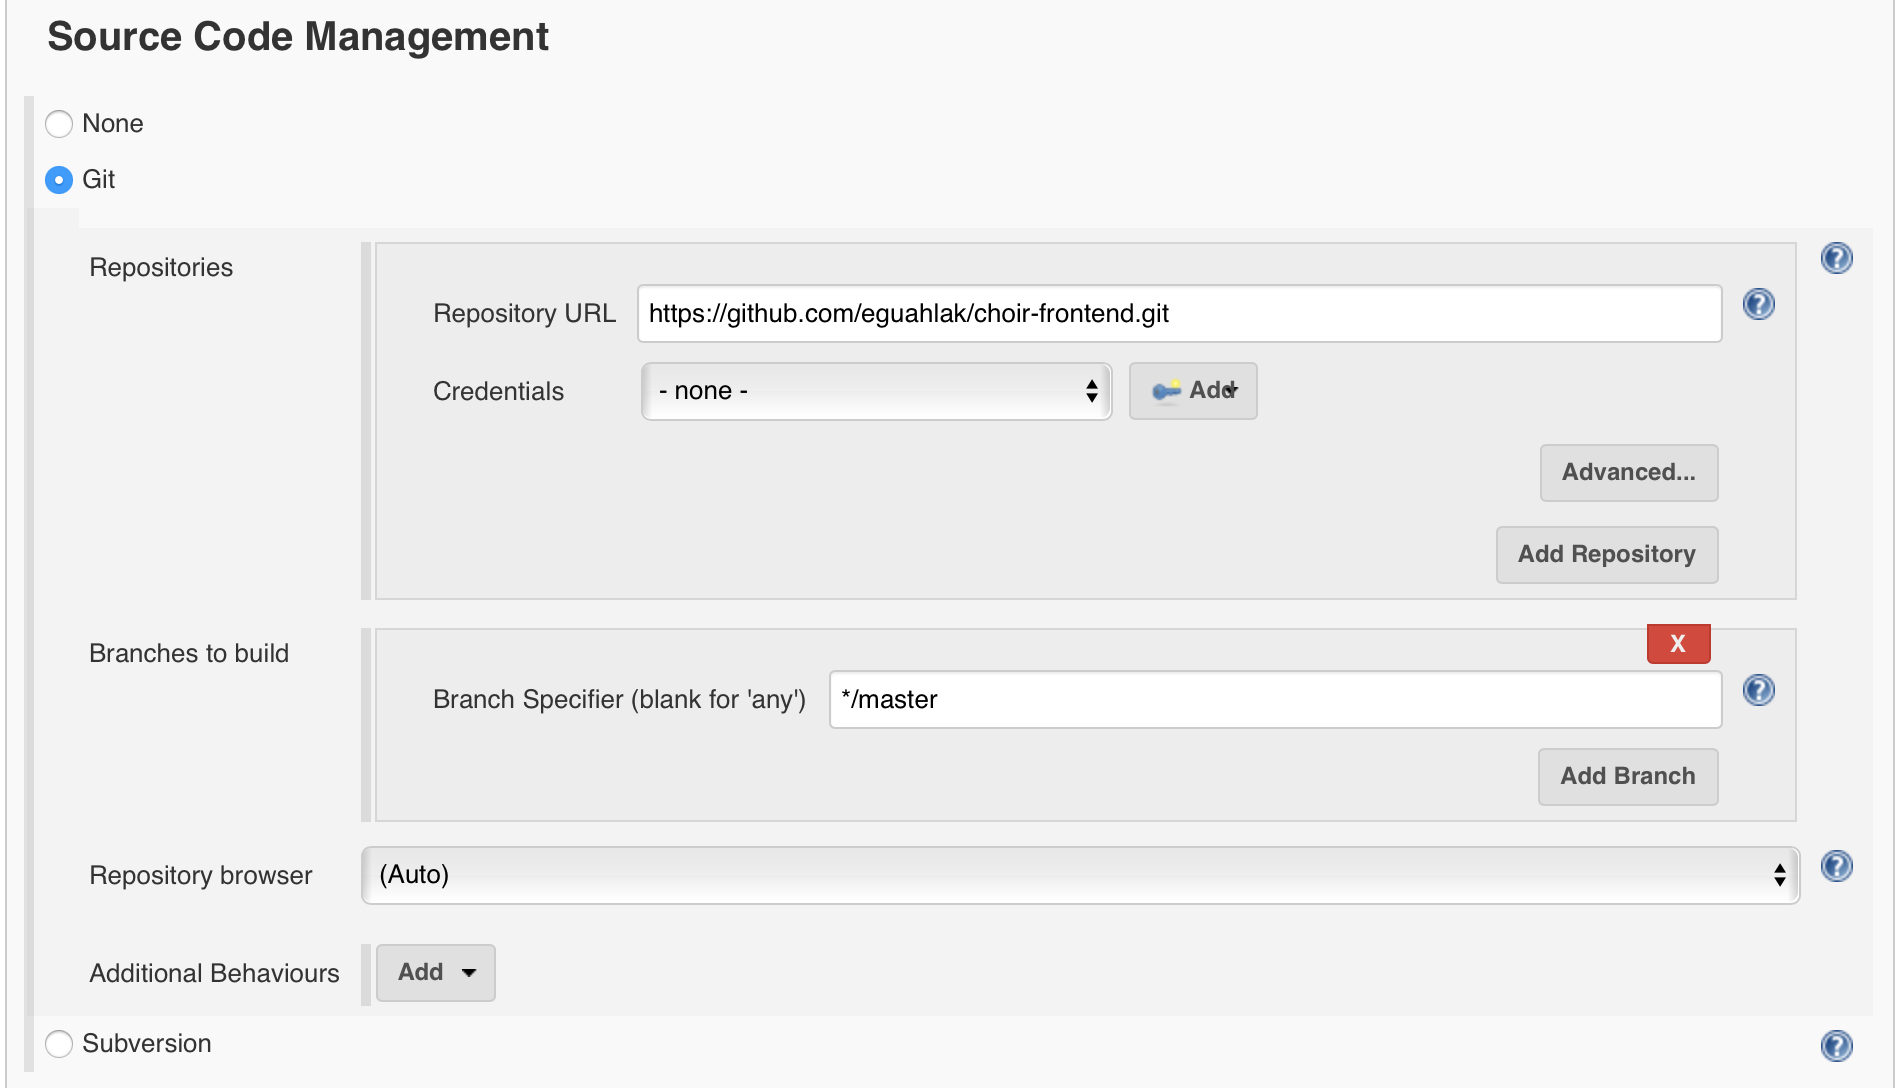
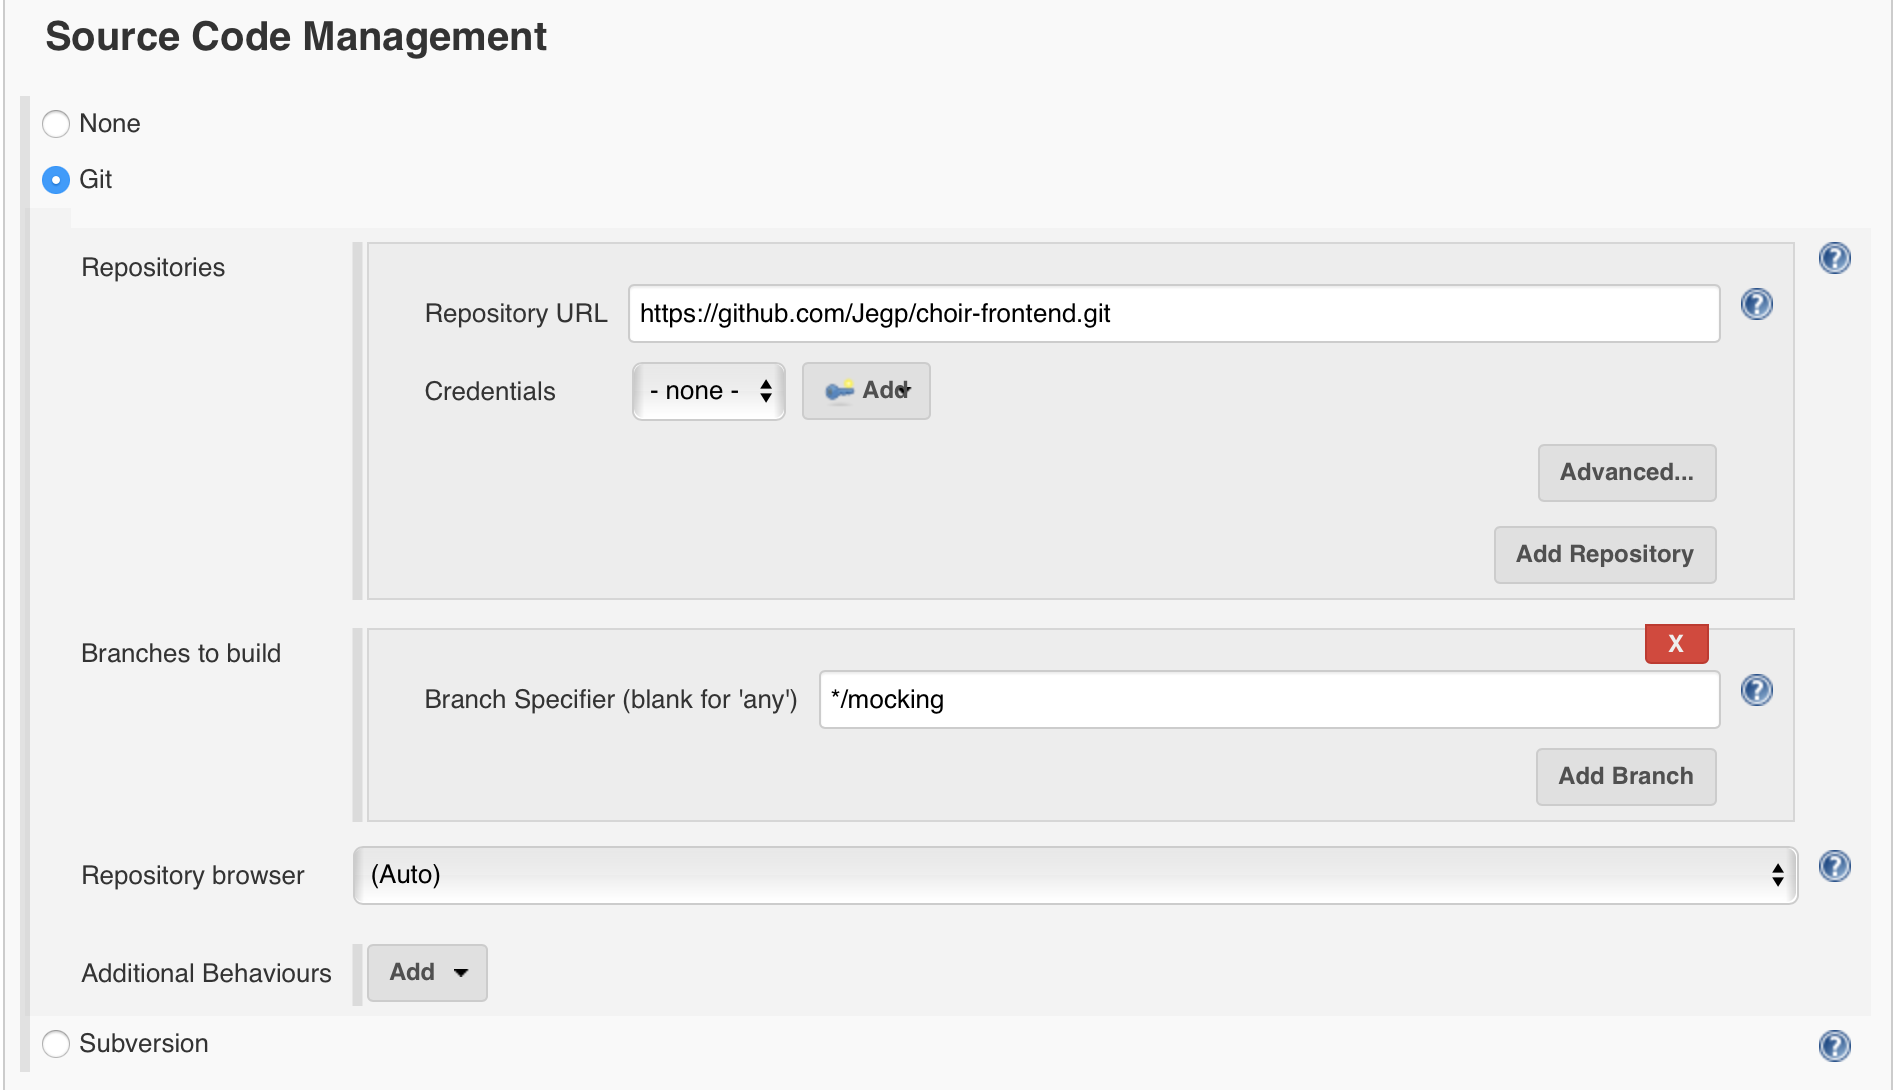
New deployment script

diff --git a/README.md b/README.md
@@ -11,7 +11,6 @@ This is a guide on how to setup an example continuous integration (CI) chain usi
   * Docker containers (https://www.docker.com) and DockerHub (https://hub.docker.com) as a public registry,
   * Vagrant (https://www.vagrantup.com) to setup and manage virtual machines
   * the Maven repository manager Artifactory (https://www.jfrog.com/open-source/),
-  * the application server Glassfish (http://glassfish.java.net/),
   * and the cloud server provider Digital Ocean (https://www.digitalocean.com).
 
 
@@ -25,9 +24,9 @@ The project's source code can be found here:
 
   * Contracts: https://github.com/eguahlak/choir-contract
   * A mockup of a backend: https://github.com/eguahlak/choir-backend-mock
-  * And a simple frontend: https://github.com/eguahlak/choir-frontend
+  * And a simple frontend: https://github.com/Jegp/choir-frontend
 
-In essence, these Java projects form a simple web-application, which serves a list of names via a JSP (http://<your_remote_host>:8080/Choir/ChoirManager).
+In essence, these Java projects form a simple web-application, which serves a list of names via a JSP (http://<your_remote_host>:8080/choir-frontend/ChoirManager).
 
 The contracts project consists of a set of interfaces and data transfer objects (DTO) and is used to let different groups of students implement their frontends and backend systems independently against a common specification and mockups.
 
@@ -46,7 +45,7 @@ Remember to fork the backend mockup and the frontend example Java projects (http
 
 We have a set of distributed developers working on their local computers and collaborating on the same source code via a Git repository hosted on GitHub. Since, for this example we do not have access to a proper build server, i.e., a separate machine, we decide to setup an Ubuntu virtual machine (VirtualBox), which will host our Jenkins build server. In case you have access to a proper build server the explanations in the following apply as well except that you can skip reading the part on Vagrant and apply the provision script (`vm/provision.sh`) directly on your machine.
 
-On a remote server -hosted at Digital Ocean, you can host it anywhere else according to your liking- we have, amongst others, a Docker container running an Artifactory instance, which serves our local Maven dependencies. Finally, to the same remote machine we will automatically deploy a Docker container, which hosts our web-application with the help of a Glassfish application server.
+On a remote server -hosted at Digital Ocean, you can host it anywhere else according to your liking- we have, amongst others, a Docker container running an Artifactory instance, which serves our local Maven dependencies. Finally, to the same remote machine we will automatically deploy a Docker container, which hosts our web-application.
 
 The setup is illustrated in the following.
 
@@ -201,7 +200,7 @@ The build jobs are the following:
 
   * choir-contract (Maven project build job, red in image)
   * choir-backend-mock (Maven project build job, green in image)
-  * choir-frontend (Maven project build job, yellow in image)
+  * choir-frontend (Freestyle project build job, yellow in image)
   * choir-build-docker (Freestyle project build job, blue in image)
 
 The dependencies of the build jobs is given by their sequence above.
@@ -290,14 +289,14 @@ Navigate to *New Item*, select *Freestyle project*, and give it the name `choir-
 Now, under *Build* -> *Add build step* choose `Execute shell`. Paste the following shell script into the *Command* field.
 
 ```bash
-cp /var/lib/jenkins/workspace/choir-frontend/target/*.war ${WORKSPACE}
-docker build -t <your_dockerhub_id>/glassfish-cph:${BUILD_NUMBER} .
+cp -r /var/lib/jenkins/workspace/choir-frontend-gradle/build/output/choir-frontend ${WORKSPACE}
+docker build -t helgecph/choirserver:${BUILD_NUMBER} .
 
 set +x
-docker login -u <your_dockerhub_id> -p "${DOCKERHUB_PWD}"
+docker login -u helgecph -p "${DOCKERHUB_PWD}"
 set -x
 
-docker push <your_dockerhub_id>/glassfish-cph:${BUILD_NUMBER}
+docker push helgecph/choirserver:${BUILD_NUMBER}
 docker logout
 ```
 
@@ -321,12 +320,16 @@ This will call the remote deployment script, which was put there during machine 
 BUILD_NUMBER=$1
 DOCKER_ID=$2
 # stop all running containers with our web application
-docker stop `docker ps -a | grep ${DOCKER_ID}/glassfish-cph | awk '{print substr ($0, 0, 12)}'`
+docker stop `docker ps -a | grep ${DOCKER_ID}/choirserver | awk '{print substr ($0, 0, 12)}'`
 # remove all of those containers
-docker rm `docker ps -a | grep ${DOCKER_ID}/glassfish-cph | awk '{print substr ($0, 0, 12)}'`
+docker rm `docker ps -a | grep ${DOCKER_ID}/choirserver | awk '{print substr ($0, 0, 12)}'`
+if (( ${BUILD_NUMBER} >= 2 )); then
+    # remove old image
+    docker rmi ${DOCKER_ID}/choirserver:${BUILD_NUMBER}
+fi
 # get the newest version of the containerized web application and run it
-docker pull ${DOCKER_ID}/glassfish-cph:${BUILD_NUMBER}
-docker run -d -ti -p 4848:4848 -p 8080:8080 ${DOCKER_ID}/glassfish-cph:${BUILD_NUMBER}
+docker pull ${DOCKER_ID}/choirserver:${BUILD_NUMBER}
+docker run -d -ti -p 8080:8080 ${DOCKER_ID}/choirserver:${BUILD_NUMBER}
 ```
 
 
@@ -334,7 +337,7 @@ docker run -d -ti -p 4848:4848 -p 8080:8080 ${DOCKER_ID}/glassfish-cph:${BUILD_N
 
 # We are Done!
 
-That is it! After creating and running the above four build jobs you should have the web application up and running on your remote machine. Try to navigate to http://<your_ip>:8080/Choir/ChoirManager and you should be served the following webpage.
+That is it! After creating and running the above four build jobs you should have the web application up and running on your remote machine. Try to navigate to http://<your_ip>:8080/choir-frontend/ChoirManager and you should be served the following webpage.
 
 ![CI Setup](docs/images/result.png)
 
@@ -349,7 +352,5 @@ That is it! After creating and running the above four build jobs you should have
   * Configure and share build jobs as Groovy scripts.
   * Share Jenkins configuration as Groovy scripts.
   * Build the Docker container using one of the corresponding Jenkins plugins.
-  * Describe an alternative scenario, in which we use the *Deploy to* plugin to deploy directly to the Glassfish application server.
-  * There is an issue with the Glassfish container killing the Artifactory container and vice-versa. I do not know the reason for that behavior yet.
 
 The idea with the latter two would be to allow for a completely automatic and reproducible CI chain setup.
